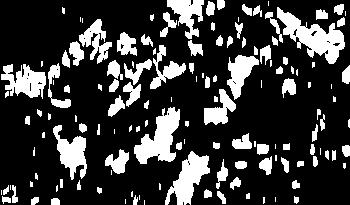
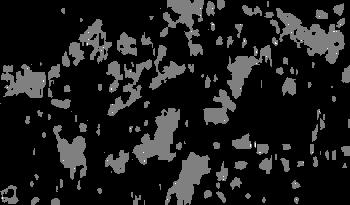
Added test for server

diff --git a/test.py b/test.py
@@ -9,7 +9,9 @@ import matplotlib.pyplot as plt
 def test(inp):
     # files = {'file': open(inp, 'rb')}
     # response = requests.post('http://0.0.0.0:5000/nature_concentration', files=files)
-    response = requests.post('http://0.0.0.0:5000/nature_concentration', json=inp)
+    # server = 'http://172.31.32:5000'
+    server = 'http://0.0.0.0:5000'
+    response = requests.post(server + '/nature_concentration', json=inp)
     print(response.ok)
 
     response = response.json()
@@ -19,7 +21,7 @@ def test(inp):
     jpg_original = base64.b64decode(mask)
     image_grey = cv2.imdecode(np.frombuffer(jpg_original, np.uint8), -1)
     plt.imshow(image_grey)
-    plt.imsave('test_images/output_new.jpg', np.array(response['image_mask']), cmap='gray')
+    plt.imsave('test_images/output_new.jpg', image_grey, cmap='gray')
     plt.show()
 
 
